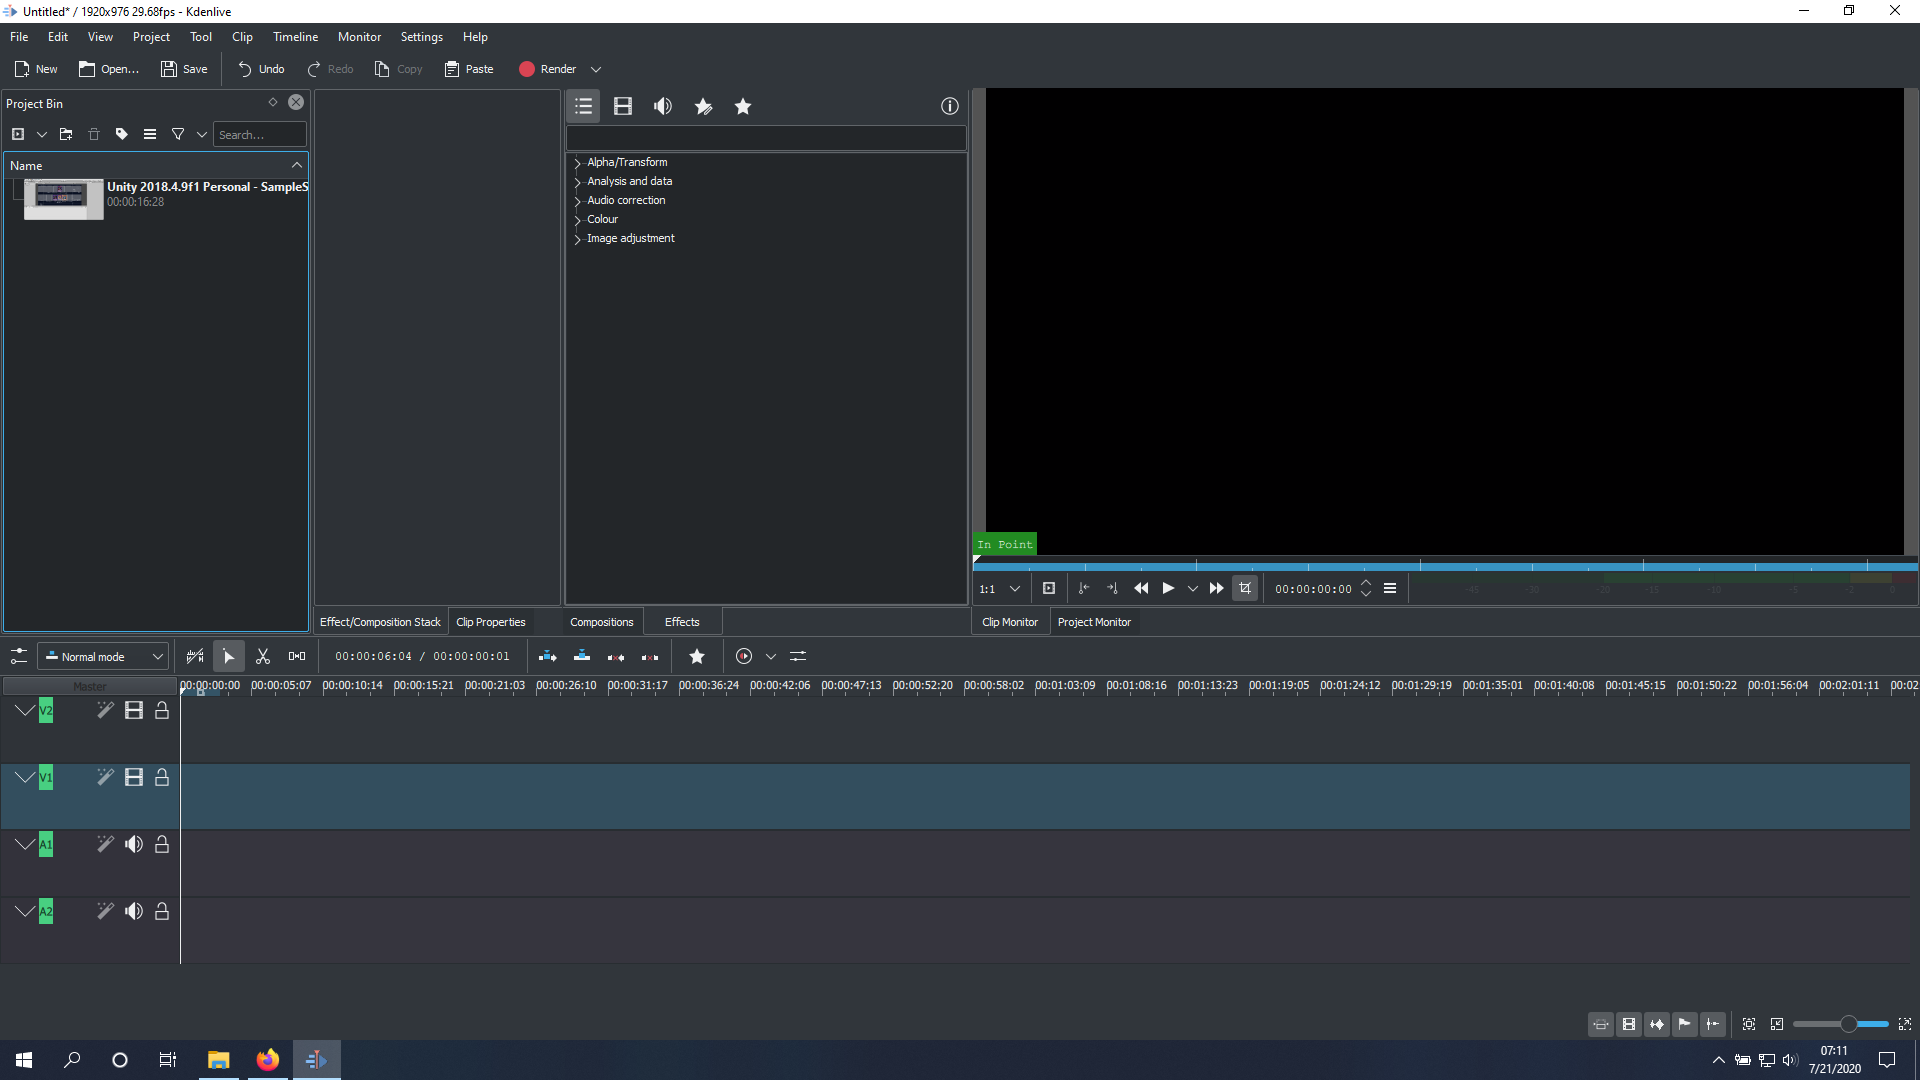
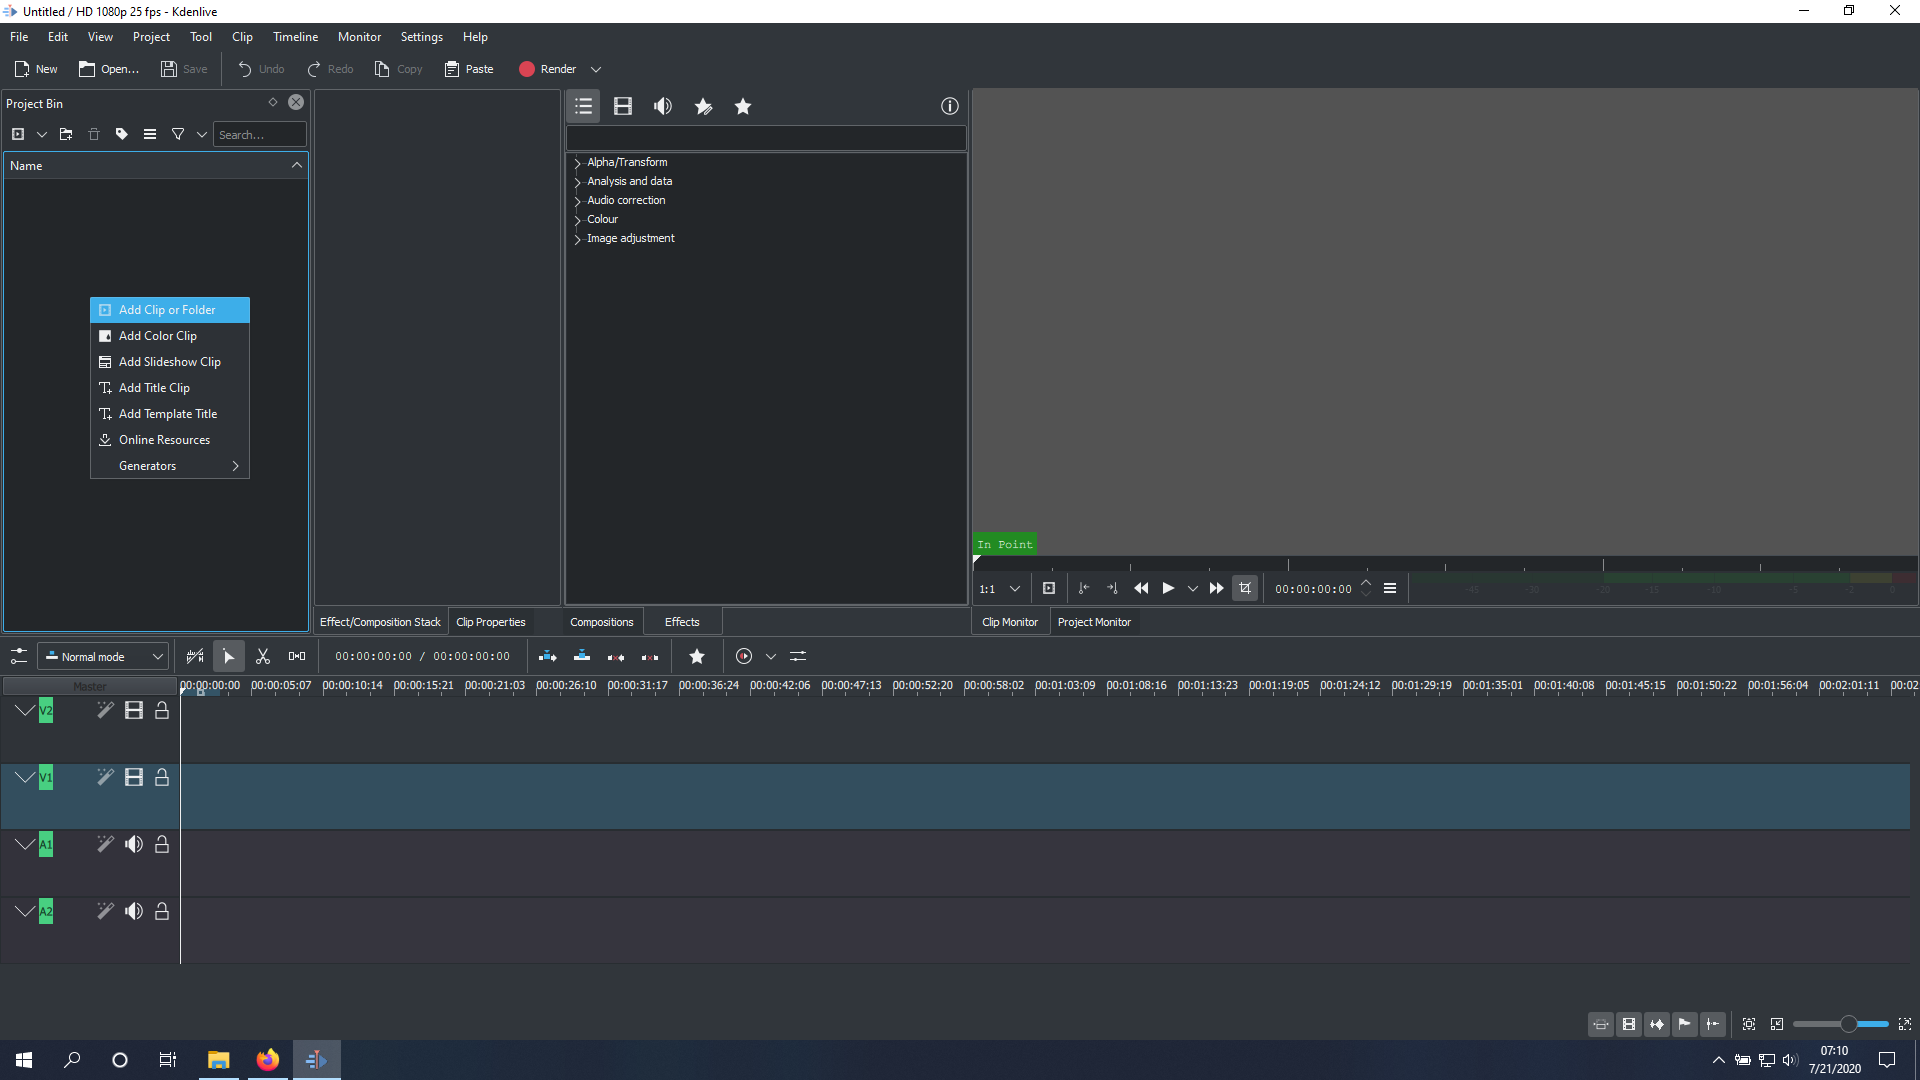
update blog

diff --git a/blog/posts/2020-07-21-kdenlive-dasar/index.md b/blog/posts/2020-07-21-kdenlive-dasar/index.md
@@ -75,16 +75,27 @@ Pada bagian yang berwarna <span style="color:blue">biru</span> adalah `timeline 
 <p align="center">
 	<img src="./posts/2020-07-21-kdenlive-dasar/6.png" height="400px" alt="img6">
 </p>
+Pertama buat folder baru, copykan semua clip,video,gambar kedalam folder tersebut
+
+`Sebisa mungkin untuk tidak memindah dan merubah nama file dalam folder! untuk mencegah data corrupt`
 
 <p align="center">
 	<img src="./posts/2020-07-21-kdenlive-dasar/7.png" height="400px" alt="img7">
 </p>
+Kemudian buka kdenlive dan masukkan clip kedalam projek bin dengan cara `drag and drop` 
+atau dengan `klik kanan pada projek bin > add clip or folder`
 
 <p align="center">
 	<img src="./posts/2020-07-21-kdenlive-dasar/8.png" height="400px" alt="img8">
+	<br>
+	<img src="./posts/2020-07-21-kdenlive-dasar/9.png" height="400px" alt="img9">
 </p>
+Selanjutnya masukkan clip kedalam timeline dengan cara `drag and drop`
 
-
+<p align="center">
+	<img src="./posts/2020-07-21-kdenlive-dasar/10.png" height="400px" alt="img10">
+</p>
+Sebelum melakukan apapun, pastikan lakukan save dan simpan file dalam folder yang sama dengan clip
 
 
 <https://userbase.kde.org/Kdenlive/Manual>
